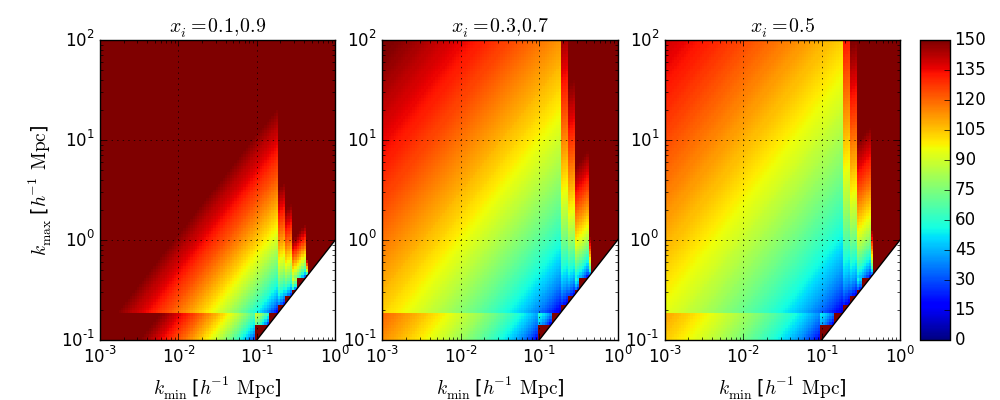
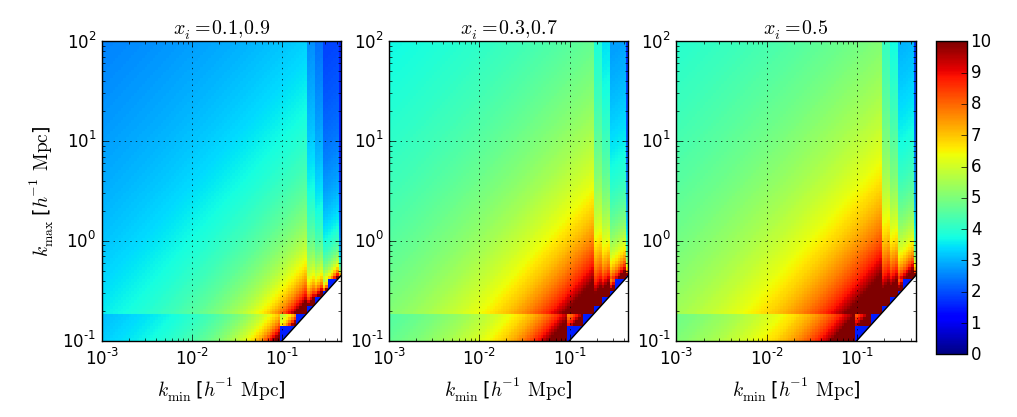
Finished Tspin in results section.

diff --git a/psa64_pspec_ver2.tex b/psa64_pspec_ver2.tex
@@ -20,6 +20,9 @@
 \newcommand{\phat}{\hat{\mathbf{p}}}
 \newcommand{\qhat}{\hat{\mathbf{q}}}
 \newcommand{\hMpci}{h\ {\rm Mpc}^{-1}}
+\newcommand{\Tsys}{T_{\rm sys}}
+\newcommand{\Tspin}{T_{\rm s}}
+\newcommand{\Tcmb}{T_\gamma}
 \newcommand\abs[1]{\left|#1\right|}
 
 \newcount\colveccount
@@ -93,7 +96,7 @@ Precision Array for Probing the Epoch of Reionization (PAPER) in South Africa.  
 work extends the work presented in \citet{parsons_et_al2014} with more collecting area,
 improved redundancy-based calibration, optimal fringe-rate filtering, and improved
 power-spectral analysis using optimal quadratic estimators. The result is a new
-$2\sigma$ upper limit on $\Delta^2(k)$ of ($20.6{\rm mK})^2$ in the range
+$2\sigma$ upper limit on $\Delta^2(k)$ of ($20.6~{\rm mK})^2$ in the range
 $0.1<k<0.5\hMpci$ at $z=8.4$.  This represents a four-fold improvement
 over the previous best upper limit.  As we discuss in more depth in the companion
 to this paper \citet{pober_et_al2015}, this upper limit supports and extends previous
@@ -1314,14 +1317,13 @@ During the LST binning step, the variance of the visibilities on a frequency and
 time basis, are recorded. Using these variances, we calculate the system
 temperature as a function of LST, averaging over each LST hour. 
 \begin{equation}
-    T_{sys} = \frac{T_{rms}}{\sqrt{\Delta\nu t_{int}}}, 
+    \Tsys = \frac{T_{\rm rms}}{\sqrt{\Delta\nu t}}, 
 \end{equation}
-where $\Delta\nu$ is the bandwidth, $t_{int}$ is the integration time, and
-$T_{rms}$ is the RMS temperature.
+where $\Delta\nu$ is the bandwidth, $t$ is the integration time, and
+$T_{\rm rms}$ is the RMS temperature.
 Figure \ref{fig:tsys} shows the results of this calculation. In this observing
 season, the system temperature stays consistent with previous estimates of the
-as in P14 and \citet{jacobs_et_al2014} at $T_{sys} =
-500K$ at 160 MHz.
+as in P14 and \citet{jacobs_et_al2014} at $\Tsys=500K$ at 160 MHz.
 
 \begin{figure}\centering
 \includegraphics[width=\columnwidth]{plots/tsys.png}
@@ -2168,7 +2170,7 @@ The dashed
 vertical lines at $0.6\hMpci$ show the bounds of the
 delay filter described in Section \ref{sec:wbd_filtering}. The theoretical
 $2\sigma$ thermal noise power spectrum is shown in dashed cyan, assuming
-$T_{\rm sys}=500K$.
+$\Tsys=500K$.
 XXX describe triangles and cite
 XXX Using 100 bootstraps. Correction factors are fringe-rate
 filter (1.9), signal loss (1.02), and median statistic (1.4), delay filter signal loss, bandpass signal loss.}
@@ -2254,7 +2256,7 @@ in the range $0.15<k<0.5\hMpci$.  We use a uniform prior of amplitudes between
 -5000 and 5000 ${\rm mK}^2$, and assume measurement errors are Gaussian.
 Figure \ref{fig:final_posterior} shows the posterior distribution of the fit.
 From this distribution, we determine a mean of
-$(15.0 {\rm mK})^2$ and a $2\sigma$ upper limit of $(19.7 {\rm mK})^2$. 
+$(15.0~{\rm mK})^2$ and a $2\sigma$ upper limit of $(19.7~{\rm mK})^2$. 
 The measured mean is inconsistent with zero at the 2.7$\sigma$ level.
 Even with the exclusion of the point at $k\approx0.35\hMpci$
 (Figure \ref{fig:final_posterior}, dashed) the mean is inconsistent with
@@ -2271,138 +2273,174 @@ under fringe-rate filtering that it arises from emission that violates these ass
 We conclude, therefore, that this excess is unlikely to be cosmic reionization, and is more
 likely the result of non-Gaussian foregrounds.  As discussed earlier, one possible
 culprit is polarization leakage \citep{moore_et_al2014,jelic_et_al2010,jelic_et_al2014}, although further
-work will be necessary to confirm this.
+work will be necessary to confirm this.  It is worth noting that the interpretation of
+the signal as polarization leakage is consistent with recent measurements in Stokes Q presented
+in \citet{moore_et_al2015}.
+
 
 To summarize, we believe the excess in our measured power spectrum is likely caused
 by foregrounds.  Hence, we suggest ignoring the lower bound on the power spectrum amplitude
 as not being of relevance for the cosmological signal.  Instead, we emphasize the 
-2$\sigma$ upper limit of $(19.7 {\rm mK})^2$ at $z=8.4$, which significantly improves over the previous
-best upper limit of $(41 {\rm mK})^2$ at $z=7.7$ reported in P14.  As we show below and in
+2$\sigma$ upper limit of $(19.7~{\rm mK})^2$ at $z=8.4$, which significantly improves over the previous
+best upper limit of $(41~{\rm mK})^2$ at $z=7.7$ reported in P14.  As we show below and in
 greater detail in \citet{pober_et_al2015}, this limit begins to have significant ramifications
 for the heating of the intergalactic medium prior to the completion of reionization.
 
 \subsection{Spin Temperature Contstraints}
 
-With the new upper limits presented in figure \ref{fig:final_pspec} of the 21 cm
-power spectrum,  we can put constraints on the mean brightness
-temperature of the 21 cm line at $z=8.4$, as done in P14.
-In a companion
-paper \citep{pober_et_al2015}, we conduct a thorough analysis of the
-constraints that can be put on the IGM using a simulation-based framework with 21cmFAST
-[XXXcite], a cosmic 21 cm simulation code. As a compliment to the more thourough
-analysis, we focus on a simpler model, as discussed in P14 and P12a that can effectively
-constrain the mean brightness temperature for the limits presented in
-figure \ref{fig:final_pspec}, and further put a constraint on the spin temperature.
+\begin{figure*}\centering
+\includegraphics[width=2\columnwidth]{plots/ts_patchy_bound.png}
+\caption{Constraints on the 21cm spin temperature at $z=8.4$, 
+assuming 
+the patchy reionization model in equations
+\ref{eqn:d2pspec_model} and \ref{eqn:patchy_bound} in the limit
+that $T_{\rm s}<T_{\rm CMB}$.
+Color indicates $T_{s}$ (in K).
+[XXX put K units in plot next to colorbar]
+[XXX remove kmin > 0.5 where we have no constraints].
+} \label{fig:patchy_bound}
+\end{figure*}
 
-We first review the relation between the spin temperature, $T_{s}$, and the
-background cosmic microwave background temperature, $T_{\gamma}$, in this
-context.  The relative temperature, $\delta{T_{b}}$, between the cosmic
-microwave bacground, $T_{\gamma}$, and the spin temperature, $T_{s}$, is given
+In this section, we examine the implication of the measured upper limits
+on 21cm emission in Figure \ref{fig:final_pspec} on the spin temperature
+of the 21cm line at $z=8.4$.
+In a companion paper \citet{pober_et_al2015}, we conduct a thorough analysis of the
+constraints that can be put on the IGM using a simulation-based framework.
+As a complement to that more thorough
+analysis, we focus here on a simpler parameterization of the shape
+of the 21cm power spectrum signal. 
+
+The brightness temperature of the 21cm signal, $\delta{T_{b}}$, arising from the
+contrast between the cosmic
+microwave background, $\Tcmb$, and the spin temperature, $\Tspin$, is given
 by 
-\begin{align}\label{eqn:tb}
-    \begin{split}
-    \delta{T_{b}}(\nu) &= \frac{T_{s} - T_{\gamma}(z)}{1+z}(1-e^{-\tau_{\nu}})\\
-                       &\approx \frac{T_{s} - T_{\gamma}}{1+z}\tau_{\nu},
-    \end{split}
-\end{align}
-where the approximation holds for low optical depth.
-The optical depth of the 21 cm line is given by 
-\begin{align}\label{eqn:tau}
-    \begin{split}
-    \tau_\nu &= \frac{3c^{3}\hbar A_{10} n_{\text{\tiny{HI}}}}{16k\nu_{o}^{2}T_{s}H(z)} \\
-            &\approx 8.6\times10^{-3}(1+\delta)x_{\text{\tiny{HI}}}\Big[\frac{T_{\gamma}(z)}{T_{s}}\Big] \Big(\frac{\Omega_{b}h^{2}}{0.02}\Big)\Big[\Big(\frac{0.15}{\Omega_{m}h^{2}}\Big)\Big(\frac{1+z}{10}\Big)\Big]^{1/2}
-    \end{split}
-\end{align}
-where $A_{10}$ is the einstein coefficient for spontaneous emission,
-$n_{\text{HI}}$ is the density of the neutral hydrogen, $H(z)$ is the hubble
+\begin{equation}\label{eqn:tb}
+    \delta{T_{b}} = \frac{\Tspin - \Tcmb}{1+z}(1-e^{-\tau})
+\approx \frac{\Tspin - \Tcmb}{1+z}\tau,
+\end{equation}
+where temperatures are implicitly a function of redshift $z$, and
+the approximation holds for low optical depth, $\tau$. 
+The optical depth is given by \citep{zaldariagga_et_al2004}
+\begin{equation}\label{eqn:tau}
+    \tau = \frac{3c^3\hbar A_{10} n_{\text{\tiny{HI}}}}{16k\nu_0^2\Tspin H(z)}
+\end{equation}
+%            %&\approx 8.6\times10^{-3}(1+\delta)x_{\text{\tiny{HI}}}\Big[\frac{T_{\gamma}(z)}{T_{s}}\Big] \Big(\frac{\Omega_{b}h^{2}}{0.02}\Big)\Big[\Big(\frac{0.15}{\Omega_{m}h^{2}}\Big)\Big(\frac{1+z}{10}\Big)\Big]^{1/2}
+where $A_{10}$ is the Einstein A coefficient for the 21cm transition,
+$n_{\text{HI}}$ is the density of the neutral hydrogen, $H(z)$ is the Hubble
 constant, $x_{HI}$ is the neutral fraction of hydrogen, $\delta$ is the local
-baryon overdensity, and the other parameters are the usual constants. nd
-cosmological parameters. We ignore the effect of redshift space distortions.
-Putting it all together and using the most recent Plack results
-\citep{planck_2015} 
+baryon overdensity, $\nu_0$ is the rest frequency of the 21cm transition, and 
+the remainder are the usual constants.
+%We ignore the effect of redshift space distortions.
+Plugging in the cosmological parameters from \citet{planck_2015}, 
+we get 
 \begin{equation}\label{eqn:final_tb}
     \delta{T_{b}} \approx T_{0}\,x_{\text{\tiny{HI}}}\,(1+\delta)\, \xi ,
 \end{equation}
-where $\xi =  \Big[1 - \frac{T_{\gamma}(z)}{T_{s}}\Big]$ and $T_{0} = 26.7 \,
-\text{mK} \Big(\frac{1+z}{10}\Big)^{1/2}$.
+where $\xi\equiv1-\Tcmb/\Tspin$ and $T_0\equiv26.7 \,
+\text{mK} \sqrt{(1+z)/10}$.
 
-If the spin temperature is larger than $T_{\gamma}$, we get the the 21 cm signal is in
-emission with respect to the CMB. However, if $T_{s}$ is less than $T_{\gamma}$,
-equation \ref{eqn:final_tb} is negative and the 21 cm will be in absorption with
-respect ot he CMB.
-The thermal history of the 21 cm line follows a very predictable theoretical
-model through cosmic time starting its journey by being coupled to the
-CMB temperature via compton scattering, There is no detectable 21 cm
-signal during this regime. As the universe cools adiabatically, the gas temperature decreases as
-$(1+z)^{2}$ and colissional coupling puts the spin temperature below the CMB
-temperature and the 21 cm line reveals itself as an absorption feuture agains
-the CMB backdrop. Just before the first sources
-turn on to couple the spin temperature back to the
-gas temperature via the Wouthuysen-Field effect \citep{wouthuysen1952}, collsional coupling becomes
-inefficient and radiative coupling dominates, bringing the spin temperature in
-equilibrium with the CMB and there is no detectable 21 cm signal.
-Once the first sources turn on, the gas temperature
-becomes coupled to the spin temperature and the signal turns up in emission,
-after the heating of the gas by X-rays and blackhole accretion. 
+If the spin temperature is larger than $\Tcmb$, we get the 21 cm signal in
+emission with respect to the CMB, and $\xi\sim1$. However, if $\Tspin$ is less than $\Tcmb$,
+$\delta T_b$ is negative and $\xi$ can potentially become large.
+%The thermal history of the 21 cm line follows a very predictable theoretical
+%model through cosmic time starting its journey by being coupled to the
+%CMB temperature via compton scattering, There is no detectable 21 cm
+%signal during this regime. 
+%As the universe cools adiabatically, the gas temperature decreases as
+%$T_K\propto(1+z)^2$ and colissional coupling puts the spin temperature below the CMB
+%temperature and the 21 cm line reveals itself as an absorption feuture agains
+%the CMB backdrop. Just before the first sources
+%turn on to couple the spin temperature back to the
+%gas temperature via the Wouthuysen-Field effect \citep{wouthuysen1952}, collsional coupling becomes
+%inefficient and radiative coupling dominates, bringing the spin temperature in
+%equilibrium with the CMB and there is no detectable 21 cm signal.
+%Once the first sources turn on, the gas temperature
+%becomes coupled to the spin temperature and the signal turns up in emission,
+%after the heating of the gas by X-rays and blackhole accretion. 
 
-We consider a scenario in which $T_{s}$ is coupled to the gas temperature via
-the Wouthuysen-Field effect, but that there is no signicifcant source of heating
-from the usual suspects (X-ray binaries, blackhole accretion, etc...). In this
-case the 21 cm  signal will be in absorption, since $T_{s} < T_{\gamma}$.
-In this scenario we can take a reasonable rescaling of power spectra to get a
-constraint on the mean brightness temperature for a simple flat power spectrum model
-as a function of the neutral fraction, $x_{\text{HI}}$, as presented in P14. Namely,
-because we have assumed no heating, and thus $\xi$ has negligible spatial
-dependence, we can take the combination
-$T_{0}^{2}\xi^{2}$ as a multiplicative scalar of the 21 cm power spectrum
-defined as 
+As in P14,
+we consider a ``weak heating" scenario in which $\Tspin$ is coupled to the gas temperature via
+the Wouthuysen-Field effect \citep{wouthuysen1952,field1958,hirata2006},
+but little heating has taken place prior to reionization, so that $\Tspin<\Tcmb$.
+%\citep{wouthuysen1952}, but that there is no signicifcant source of heating
+%from the usual suspects (X-ray binaries, blackhole accretion, etc...). 
+%In this
+%case, the 21 cm  signal will be in absorption, since $T_{s} < T_{\gamma}$.
+In this scenario, 
+because we have assumed little heating, we can approximate $\xi$ as having negligible spatial
+dependence, and therefore $T_0^2\xi^2$ becomes a simple multiplicative scalar to the 
+21cm power spectrum:
 \begin{equation}\label{eqn:d2pspec_model}
-    \Delta^{2}_{21}(k) = T_{0}^{2}(z)\xi^{2}(z)\Delta_{i}^{2}(k)\equiv
-\expval{T_{b}^{2}}\Delta_{i}^{2}(k),
+    \Delta^2_{21}(k) = T_0^2\xi^2(z)\Delta_{i}^{2}(k),%\equiv
+%\expval{T_{b}^{2}}\Delta_{i}^{2}(k),
 \end{equation}
-where $\Delta_{i}^{2}(k)$ is a
-dimensionless ionization power spectrum. The maximum value of the
-prefactor in equation \ref{eqn:d2pspec_model} is given by considering the fact
-that in the no heating scenario we are considering, the spin temperature and the
-CMB must be in equilibrium via compton scattering until about a redshift of 150
-\citep{furlanetto_et_al2006} and hence the maximum value of $\xi$ is given by
+where $\Delta_{i}^{2}(k)$ is the dimensionless ionization power spectrum. 
+
+As shown in P14, the maximum value of the
+prefactor in equation \ref{eqn:d2pspec_model} is given by 
+a no-heating scenario where the spin temperature follows the kinetic gas temperature,
+which is held in equilibrium with the CMB via Compton scattering until $z_{\rm dec}\approx150$
+\citep{furlanetto_et_al2006} and then cools adiabatically
+as $(1+z)^2$.
+In this case, $\xi$ is given by
 \begin{equation}\label{eqn:maxxi}
-\xi = 1 -\frac{1+z_{dec}}{1+z} \approx -\frac{150}{1+z} 
+\xi = 1 -\frac{1+z_{\rm dec}}{1+z} \approx -\frac{150}{1+z}.
 \end{equation}
-for the redshifts under consideration. Therfore, combining equations for $T_{0}$
-and equation \ref{eqn:maxxi} we get that the the maximum value of the prefactor in
-equation \ref{eqn:d2pspec_model} is given by 
-\begin{equation}
-    \text{max}[T_{0}(z)\xi(z)] \approx 370\big(\frac{10}{1+z}\big)^{1/2}.
-\end{equation}
+At $z=8.4$, this corresponds to a minimum bound on the spin temperature of $\Tspin>1.5~{\rm K}$.
 
-By rearranging equation \ref{eqn:d2pspec_model}, we get that 
-\begin{equation}
-    T_{b} = T_{0}(z)\xi(z) = T_{0}(z)(1 - \frac{T_{\gamma}}{T_{spin}},
-\end{equation}
-noting the fact that in our no heating scenario, the brightness temperature is
-negative. Solving for the spin temperature, we have that 
-\begin{equation}
-    T_{s}(z) = T_{\gamma}(z)\Big[1 - \frac{T_{b}}{T_{0}(z)}\Big]^{-1}.
-\end{equation}
-
-We now consider the "patchy" reionization model described in P14 and P12a which
-approximates the 21 cm power spectrum as flat between some minimum and maximum
-scales, $k_{\text{min}}$ and $k_{\text{max}}$, respectively,
+We can now flip this argument around and, for a measured upper bound on $\Delta^2_{21}(k)$, we
+can use models for $\Delta_i^2(k)$ in equation \ref{eqn:d2pspec_model} to place a bound
+on $\Tspin$.  
+%This produces a maximum prefactor of
+%\begin{equation}
+%    \text{max}[T_0\xi] \approx 370\left(\frac{10}{1+z}\right)^{1/2}~{\rm mK}.
+%\end{equation}
+%
+%By rearranging equation \ref{eqn:d2pspec_model}, we get that 
+%\begin{equation}
+%    T_{b} = T_{0}(z)\xi(z) = T_{0}(z)(1 - \frac{T_{\gamma}}{T_{spin}},
+%\end{equation}
+%noting the fact that in our no heating scenario, the brightness temperature is
+%negative. Solving for the spin temperature, we have that 
+%\begin{equation}
+%    T_{s}(z) = T_{\gamma}(z)\Big[1 - \frac{T_{b}}{T_{0}(z)}\Big]^{-1}.
+%\end{equation}
+We consider a class of ``patchy" reionization models (P12a,P14) which
+approximates the ionization power spectrum as flat between minimum and maximum
+bubble sizes, $k_{\text{min}}$ and $k_{\text{max}}$, respectively:
 \begin{equation}\label{eqn:patchy_bound}
     \Delta^{2}_{i}(k) = (x_{\text{HI}} -
 x_{\text{HI}}^{2})/\ln{(k_{\text{max}}/k_{\text{min}})}.
 \end{equation}
-Under this model, for every pair of $k_{\text{min}}$ and $k_{\text{max}}$ in a
-grid, we 
-determine the minimum  spin temperature below which equation
-\ref{eqn:d2pspec_model} becomes inconsisitent with our $2\sigma$ 21 cm power
-spectrum upper limits shown in figure \ref{fig:final_pspec}.
+For combinations of $k_{\text{min}}$ and $k_{\text{max}}$,
+we 
+determine the minimum spin temperature 
+implied by the $2\sigma$ 21 cm power
+spectrum upper limits shown in Figure \ref{fig:final_pspec}.
 Figure \ref{fig:patchy_bound} shows the results of these bounds
-for neutral fractions of $x_{\text{HI}}=\text{.1, .3, .5, .7, and .9}$.
-Throughout all neutral fractions, we find that $T_{s} \gtrsim 3\,\text{K}$ for all
-$k$-modes in question. Furthermore, the kinetic temperature at $z=8.4$ is
-$T_{k}(8.4) = 1.6\, \text{K} \, < \,T_{s}(8.4)$. 
+for neutral fractions of $x_{\text{HI}}=$ 0.1, 0.3, 0.5, 0.7, and 0.9.
+In all cases, we find that $\Tspin\gtrsim 3\,\text{K}$, indicating 
+that our measurements are inconsistent with the spin temperature
+being coupled to a kinetic temperature governed strictly by
+adiabatic expansion.
+
+Our results become more interesting in the range of $\kmin\sim0.1$ and $\kmax\sim30$
+representative of fiducial simulations \citep{lidz_et_al2008,zahn_et_al2007}.
+For neutral fractions of 0.3, 0.5, and 0.7, we find
+we find that $\Tspin\gtrsim 5\,\text{K}$.  As discussed in \citet{pober_et_al2015}
+in the context of simulations that do not rely on the approximations
+we have made, these limits push the bounds of the amount of heating possible
+given the currently observed star formation rates in high-redshift galaxy populations 
+\citep{bouwens_et_al2014,mcleod_et_al2014}
+and assumptions about the relationship between star formation rates and
+X-ray luminosities \citep{furlanetto_et_al2006,pritchard_loeb2008,fialkov_et_al2014}.
+Assuming the midpoint of reionization lies close to $z=8.4$ (a
+reasonable assumption given that \citealt{planck_2015} suggests
+a midpoint of $z=8.8$), these bounds provide evidence
+for additional sources of heating beyond the observed
+galaxy population.  We refer the reader to \citet{pober_et_al2015} for a
+detailed examination of these results.
+
 
 %%%%%%%%%%%%%%%%%%%%%%%%%%%%%%%%%%%%%%%%%%%%%%%%%%%%%%%%%%%%%%%%%%%%%%%%%%%%%%%%
 %   -Tsys, and Tsys vs. time ?
@@ -2452,18 +2490,6 @@ $T_{k}(8.4) = 1.6\, \text{K} \, < \,T_{s}(8.4)$.
 %   -Repeat the science measurement in Parsons 2014. This will compliment the
 %    Jonnies result.
 %   -the wedge - maybe?
-
-\begin{figure*}\centering
-\includegraphics[width=2\columnwidth]{plots/ts_patchy_bound.png}
-\caption{Constraints on the 21cm spin temperature at $z=8.4$, 
-assuming 
-the patchy reionization model in equations
-\ref{eqn:d2pspec_model} and \ref{eqn:patchy_bound} in the limit
-that $T_{\rm s}<T_{\rm CMB}$.
-Color indicates $T_{s}$ (in K).
-[XXX put K units in plot next to colorbar]
-} \label{fig:patchy_bound}
-\end{figure*}
 
 
 

diff --git a/plots/plot_patchy_bound.py b/plots/plot_patchy_bound.py
@@ -135,7 +135,7 @@ for cnt,(xi,sty) in enumerate([(.1,'-'), (.3,'--'), (.5,'-.')]):
         extent=(1e-3,1e2,1e-3,1e2))
     p.xscale('log')
     p.yscale('log')
-    p.xlim(1e-3,1e0)
+    p.xlim(1e-3,0.45)
     p.ylim(1e-1,1e2)
     #p.fill_between([-3,3],[-3,3],[-3,-3], facecolor='w', alpha=1)
     if xi == 0.5: p.title('$x_i=%3.1f$'%xi)
